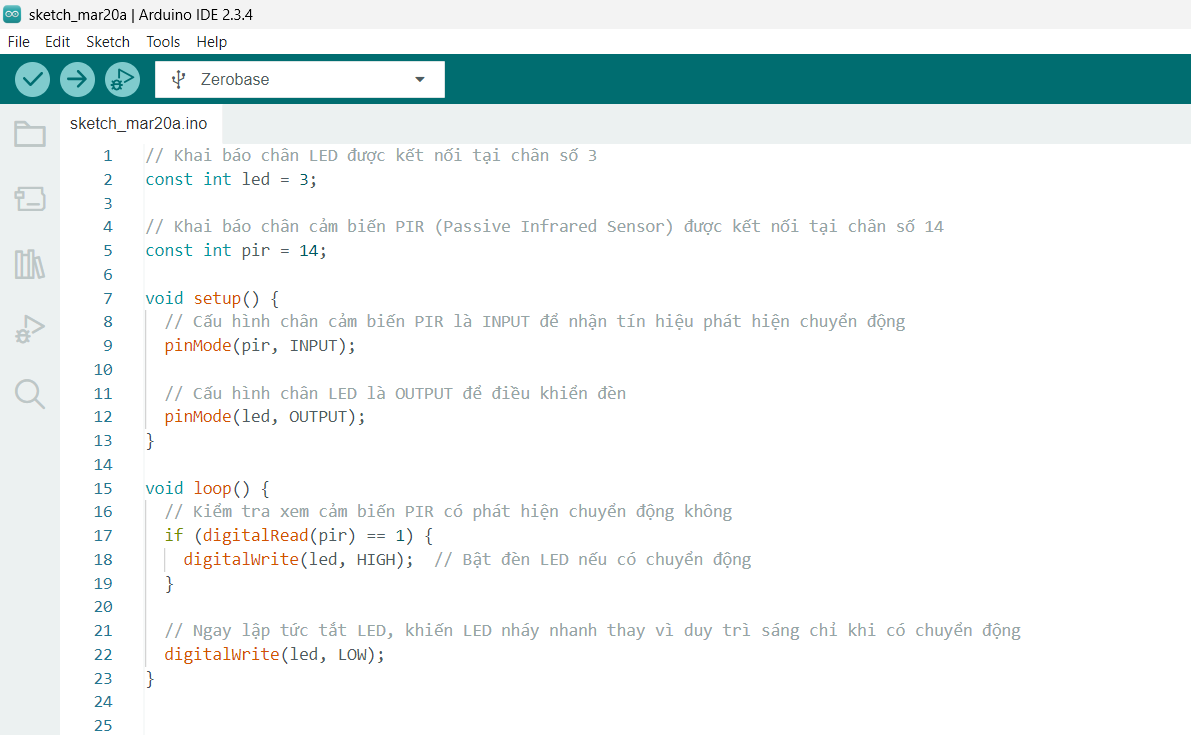
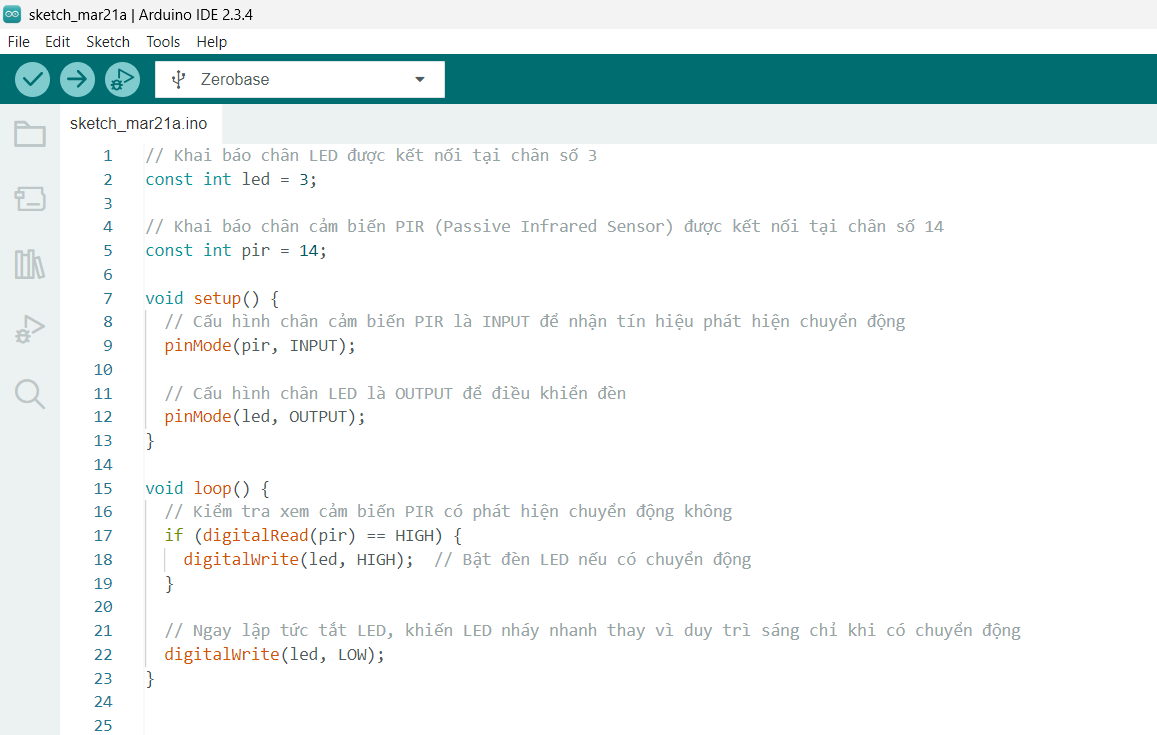
fix: 1 to HIGH pir example zerobase

diff --git a/vi/zerobase/examples/pir.md b/vi/zerobase/examples/pir.md
@@ -102,7 +102,7 @@ void setup() {
 
 void loop() {
   // Kiểm tra xem cảm biến PIR có phát hiện chuyển động không
-  if (digitalRead(pir) == 1) {
+  if (digitalRead(pir) == HIGH) {
     digitalWrite(led, HIGH);  // Bật đèn LED nếu có chuyển động
   }
 
@@ -132,7 +132,7 @@ Khai báo biến `led` là chân số 3 kết nối với đèn LED và biến `
 Cấu hình chân `pir` là INPUT để nhận tín hiệu phát hiện chuyển động và chân `led` là OUTPUT để điều khiển đèn LED.
 
 ```cpp
-  if (digitalRead(pir) == 1) {
+  if (digitalRead(pir) == HIGH) {
     digitalWrite(led, HIGH);
   }
 ```
